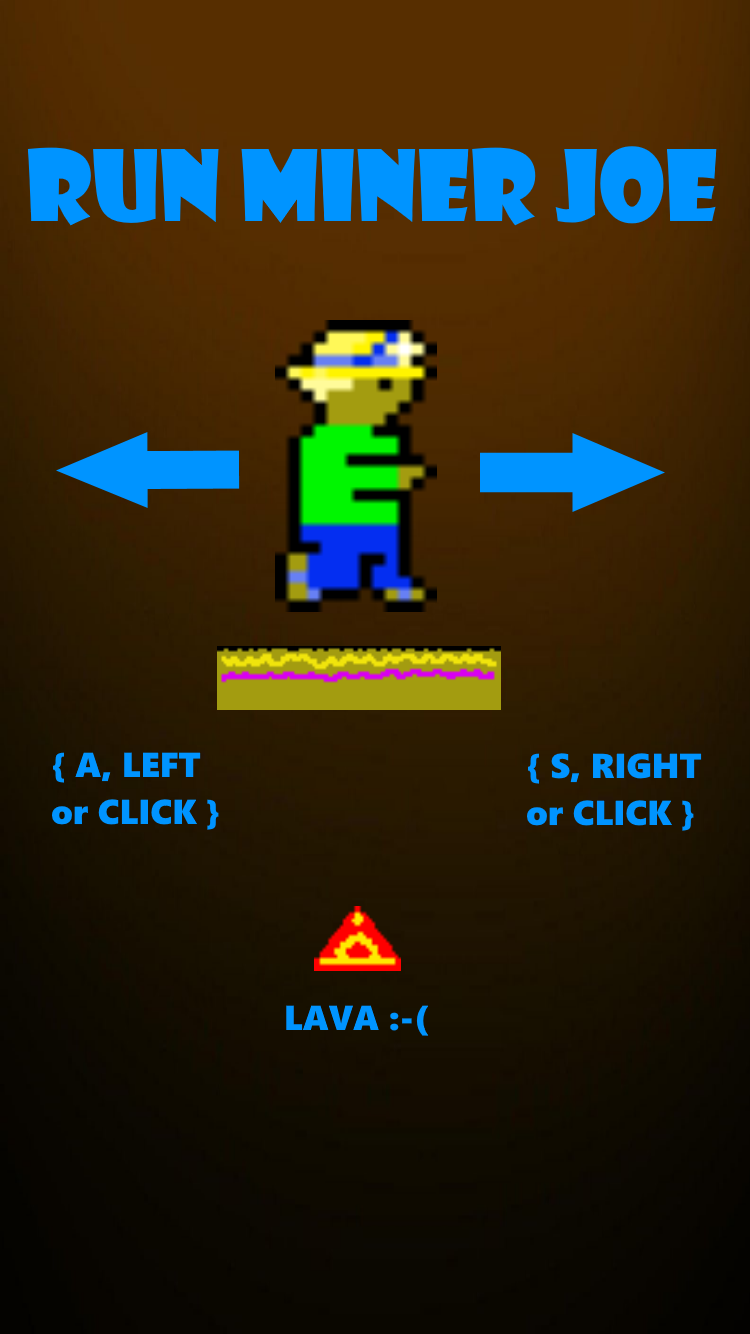
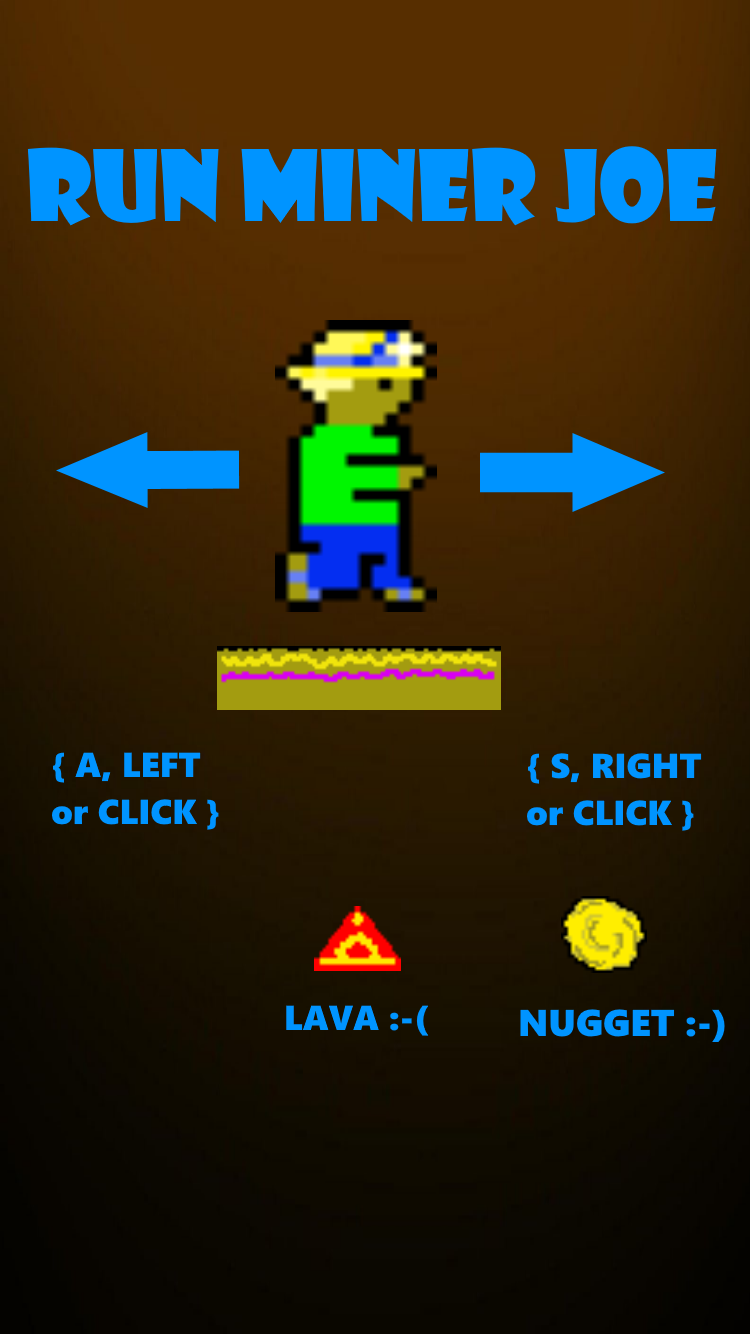
Add nuggets and flashings

Changed region(s): [[0.6747, 0.6454, 0.8893, 0.7991], [0.9507, 0.7376, 0.9813, 0.7991]]

diff --git a/src/gameScene.js b/src/gameScene.js
@@ -21,6 +21,14 @@ class GameScene extends Phaser.Scene
         this.sndshortmusic = this.sound.add('shortaudio', { loop: false, volume: 0.6 });
         this.snddeath = this.sound.add('deathaudio', { loop: false, volume: 0.9 });
         this.snddeathfalling = this.sound.add('deathfallingaudio', { loop: false, volume: 0.9 });
+        this.sndnugget = this.sound.add('nuggetaudio', { loop: false, volume: 0.6 });
+
+        this.anims.create({
+            key: 'nugget-spin',
+            frames: this.anims.generateFrameNumbers('nugget', { frames: [ 0, 1, 2, 3 ] }),
+            frameRate: 10,
+            repeat: -1
+        });
     }
       
     create ()
@@ -31,6 +39,8 @@ class GameScene extends Phaser.Scene
         cnt = 0;
         level = 1;
         edgeSpeed = 190;
+        coins = 0;
+        isFading = false;
 
         this.musicGame.stop();
         this.musicGame.play();
@@ -49,6 +59,21 @@ class GameScene extends Phaser.Scene
             key: this.lavaGroup.defaultKey,
             frame: this.lavaGroup.defaultFrame,
             frameQuantity: 0.5 * this.lavaGroup.maxSize,
+            active: false,
+            visible: false
+          });
+
+        //this.nugget1 = this.physics.add.sprite(this.game.config.width / 2, 100, "nugget").setSize(25,25).play('nugget-spin');
+        this.coinGroup = this.physics.add.group({
+            defaultKey: 'nugget',
+            defaultFrame: 0,
+            maxSize: 10,
+            enable: false
+          });
+        this.coinGroup.createMultiple({
+            key: this.coinGroup.defaultKey,
+            frame: this.coinGroup.defaultFrame,
+            frameQuantity: 0.5 * this.coinGroup.maxSize,
             active: false,
             visible: false
           });
@@ -93,6 +118,13 @@ class GameScene extends Phaser.Scene
         leftKey.on('up', this.stopMinerJoe, this);
         rightKey.on('up', this.stopMinerJoe, this);
 
+        this.cameras.main.on('camerafadeoutcomplete', function (camera) {
+
+            camera.fadeIn(6000, 255);
+            isFading = false;
+
+        }, this);
+
         //this.registry.set('lives', 3);
         this.registry.set('level', level);
         let oldHi = localStorage.getItem('ld48hiscore');
@@ -114,20 +146,22 @@ class GameScene extends Phaser.Scene
                 that.text.setText([
                     'Level: 1',
                     'Hi-Score: ' + localStorage.getItem('ld48hiscore'),
+                    'Nuggets: 0',
                     'Score: 0'
                 ]);
             }
         });
 
-        this.setTextHud(level, this.hi, score);
+        this.setTextHud(level, this.hi, score, coins);
 
         firstMove = true;
     }
 
-    setTextHud(levelin, hiin, scorein) {
+    setTextHud(levelin, hiin, scorein, cooinin) {
         this.text.setText([
             'Level: ' + levelin,
             'Hi-Score: ' + hiin,
+            'Nuggets: ' + cooinin,
             'Score: ' + scorein + ' meters'
         ]);
     }
@@ -144,23 +178,26 @@ class GameScene extends Phaser.Scene
                 edgeSpeed = edgeSpeed + (10*level);
                 this.edgeGroup.setVelocityY(-edgeSpeed);
                 this.lavaGroup.setVelocityY(-edgeSpeed);
+                this.coinGroup.setVelocityY(-edgeSpeed);
                 this.musicGame.setRate(1*(1+(level/100)));
             }
 
-            this.setTextHud(level, this.hi, score);
+            this.setTextHud(level, this.hi, score, coins);
         }
 
         if(gameOver == true) {
             this.musicGame.stop();
 
             this.lavaGroup.clear(true, true);
+            this.coinGroup.clear(true, true);
 
             var red = Phaser.Math.Between(50, 255);
             var green = Phaser.Math.Between(50, 255);
             var blue = Phaser.Math.Between(50, 255);
 
             this.registry.set('score', score);
-            this.registry.set('level', level)
+            this.registry.set('level', level);
+            this.registry.set('nuggets', coins);
             let oldHi = localStorage.getItem('ld48hiscore');
             if(oldHi === null || oldHi < score)
                 localStorage.setItem('ld48hiscore', score);
@@ -174,6 +211,28 @@ class GameScene extends Phaser.Scene
                 this.game.sound.stopAll();
                 this.scene.start('GameOverScene');
               }, [], this);
+        }
+
+        if(level == 3 && !gameOver) {
+
+            this.cameras.main.shake(500);
+
+        }
+
+        if(level == 5 && !gameOver && !isFading) {
+            isFading = true;
+
+            this.cameras.main.shake(500);
+
+            var red = Phaser.Math.Between(50, 200);
+            var green = Phaser.Math.Between(50, 200);
+            var blue = Phaser.Math.Between(50, 200);
+
+            this.cameras.main.fade(4000, red, green, blue);
+        }
+
+        if(level == 6 && !gameOver) {
+            this.cameras.main.flash();
         }
 
         this.physics.world.collide(this.edgeGroup, this.minerjoe);
@@ -191,9 +250,40 @@ class GameScene extends Phaser.Scene
             this.minerjoe.angle = -45;
         }, null, this);
 
+        // setting collisions between the player and the coin group
+        this.physics.add.overlap(this.minerjoe, this.coinGroup, function(player, coin){
+            this.sndnugget.play();
+            coins++;
+            score = score + 50;
+            this.setTextHud(level, this.hi, score, coins);
+            this.coinGroup.killAndHide(coin);
+            this.coinGroup.remove(coin);
+            /*this.tweens.add({
+                targets: coin,
+                y: coin.y - 10,
+                alpha: 0,
+                duration: 800,
+                ease: "Cubic.easeOut",
+                callbackScope: this,
+                onComplete: function(){
+                    this.coinGroup.killAndHide(coin);
+                    this.coinGroup.remove(coin);
+                }
+            });*/
+        }, null, this);
+
         this.lavaGroup.getChildren().forEach(function(lava){
             if(lava.getBounds().bottom < 0){
                 lava.disableBody( 
+                    true, // Deactivate sprite (active=false)
+                    true  // Hide sprite (visible=false)
+                  );
+            }
+        }, this);
+
+        this.coinGroup.getChildren().forEach(function(coin){
+            if(coin.getBounds().bottom < 0){
+                coin.disableBody( 
                     true, // Deactivate sprite (active=false)
                     true  // Hide sprite (visible=false)
                   );
@@ -290,6 +380,26 @@ class GameScene extends Phaser.Scene
         edge.x = this.game.config.width / 2 + this.randomValue(hDistanceEdge) * Phaser.Math.RND.sign();
         edge.displayWidth = this.randomValue(edgeLength);
 
+        if(firstMove === false && !gameOver) {
+            if(Phaser.Math.Between(1, 100) <= 25){
+                var coin = this.coinGroup.get();
+
+                if(coin) {
+                    coin.enableBody(
+                        true, // Reset body and game object, at (x, y)
+                        edge.x,
+                        edge.y - 80,
+                        true, // Activate sprite
+                        true  // Show sprite
+                        );
+                                    
+                        coin.setVelocityY(-edgeSpeed);
+                        coin.setOrigin(0.5, 0);
+                        coin.play('nugget-spin');
+                }
+            }
+        }
+
         var thelava = this.lavaGroup.get();
 
         if (!thelava) {
@@ -331,3 +441,5 @@ var minerJoeSpeed = 300;
 var vDistanceEdge =  [150, 300];
 var hDistanceEdge = [0, 250];
 var edgeLength = [50, 150];
+var coins = 0;
+var isFading = false;

diff --git a/src/loadScene.js b/src/loadScene.js
@@ -7,6 +7,8 @@ import sndMusic3 from './assets/music3.mp3';
 import sndShortBeat from './assets/shortbeat.mp3';
 import sndDeath from './assets/death.mp3';
 import sndFallingDeath from './assets/fallingdeath.mp3';
+import nuggetImg from './assets/nugget.png';
+import sndNugget from './assets/nugget.mp3';
 
 class LoadScene extends Phaser.Scene
 {
@@ -28,6 +30,9 @@ class LoadScene extends Phaser.Scene
         this.load.audio('shortaudio', sndShortBeat, null);
         this.load.audio('deathaudio', sndDeath, null);
         this.load.audio('deathfallingaudio', sndFallingDeath, null);
+        this.load.audio('nuggetaudio', sndNugget, null);
+
+        this.load.spritesheet('nugget', nuggetImg, { frameWidth: 25, frameHeight: 25 });
     }
       
     create () 

diff --git a/src/gameoverScene.js b/src/gameoverScene.js
@@ -29,6 +29,7 @@ class GameOverScene extends Phaser.Scene
                 text.setText([
                     'Level: ' + registry.get('level'),
                     'Score: ' + registry.get('score'),
+                    'Nuggets: ' + registry.get('nuggets'),
                     'Hi-Score: ' + localStorage.getItem('ld48hiscore')
                 ]);
                 txt = add.text(210, 1100, 'SPACE or CLICK', { fontFamily: 'Finger Paint', fontSize: 40, color: '#00ff00' });
